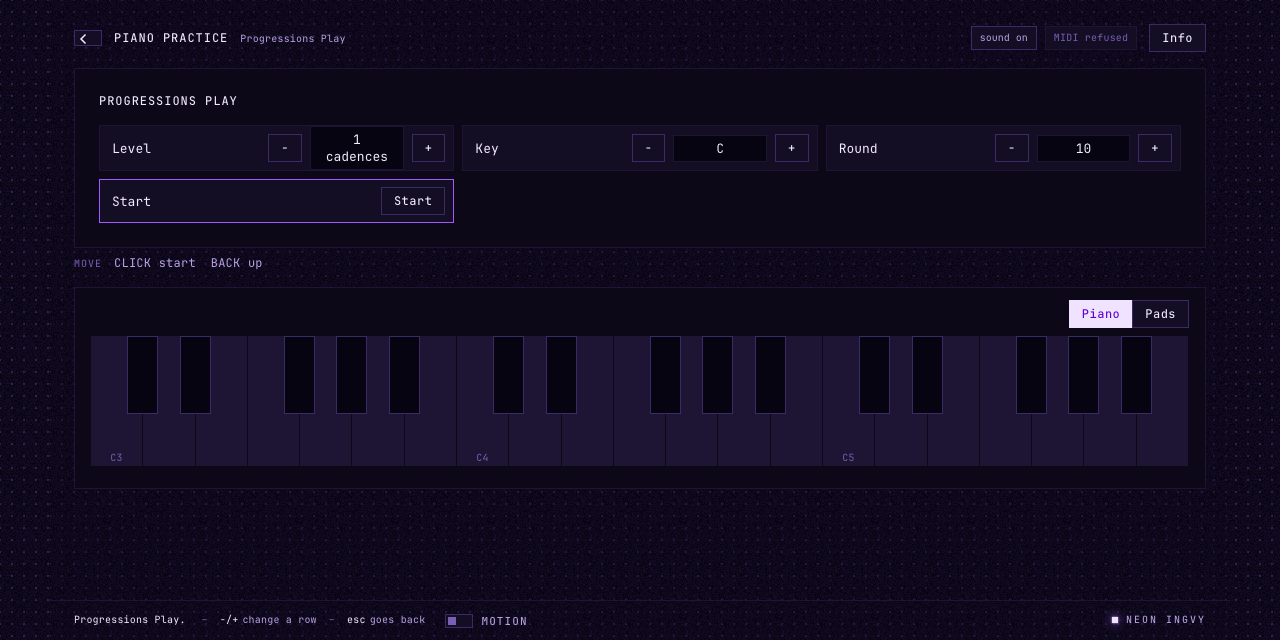
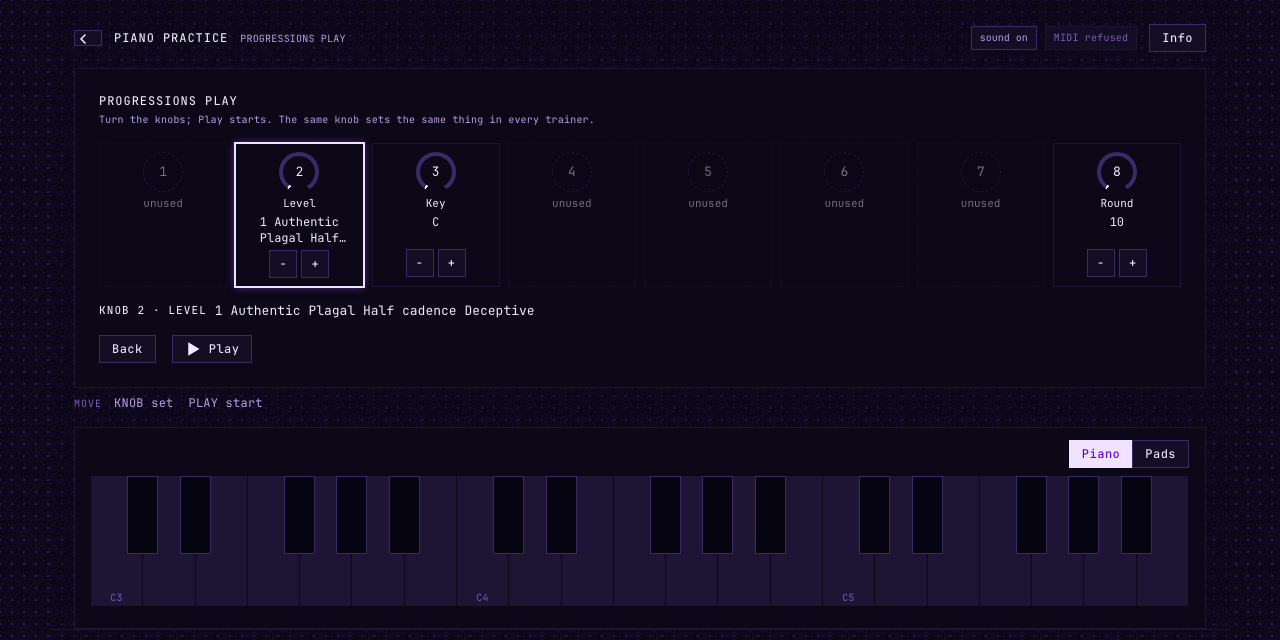
Web: the knob screen, and the docs for knobs and the answer strip
The page's setup is the Move's row of eight knobs: number, what it
sets, its value in words, - / + a step, unused knobs greyed, the knob
last turned spelled out, Play (waiting with its reason while a Custom
pick is too small) and Custom... for the tick list. Actions knob,
focusKnob, play and customPick; e2e for - / +, Play, Back keeping the
focus, and a blocked Custom pick. README, trainers.md, web.md and
finding-your-way describe the knobs and the answer strip, with new
pictures of both.

diff --git a/web/src/app/views.jsx b/web/src/app/views.jsx
@@ -726,6 +726,68 @@ export function TrainerStatsView(props) {
   );
 }
 
+/* ---- A trainer's knob screen --------------------------------------------------- */
+
+/*
+ * A trainer circle's setup, as the Move shows it: eight knobs in a row, the
+ * same knob the same setting in every trainer. Each cell is a knob: its
+ * number, what it sets, its value in words (the page has the room the
+ * Move's two letters lack), and − / + for a step either way (a knob
+ * this circle does not use is greyed). The knob last touched is spelled out
+ * under the row; Play starts, and while a Custom pick is too small it says
+ * why instead.
+ */
+export function KnobSetupView(props) {
+  const ks = () => props.vm().trainerSetup;
+  const focused = () => ks() && ks().knobs.find((k) => k.n === ks().focus && k.field);
+  const turn = (n, delta) => props.dispatch({ type: 'knob', n, delta });
+  return (
+    <Show when={ks()}>
+      <section class="screen knob-screen" aria-labelledby="knob-title">
+        <header class="screen-head">
+          <h1 id="knob-title" class="t-title">{ks().title}</h1>
+          <p class="t-hint">Turn the knobs; Play starts. The same knob sets the same thing in every trainer.</p>
+        </header>
+        <ol class="knob-row" aria-label="The eight knobs">
+          <For each={ks().knobs}>{(k) => (
+            <li class="knob-cell" classList={{ on: k.n === ks().focus, unused: !k.field }} data-knob={k.n}
+                data-field={k.field || ''}>
+              <span class="knob-dial" aria-hidden="true"
+                    style={{ '--pos': k.field ? k.pos : 0 }}><span class="t-value">{k.n}</span></span>
+              <Show when={k.field} fallback={<span class="t-hint knob-label">unused</span>}>
+                <button class="knob-label t-label" type="button" onClick={() => props.dispatch({ type: 'focusKnob', n: k.n })}
+                        data-info={`Knob ${k.n}: ${k.label}`}>{k.label}</button>
+                <span class="knob-value t-value" title={k.text}>{k.text}</span>
+                <span class="knob-steps">
+                  <Button info={`${k.label}: one back`} ariaLabel={`Knob ${k.n}, ${k.label}: down`}
+                          onClick={() => turn(k.n, -1)}>−</Button>
+                  <Button info={`${k.label}: one on`} ariaLabel={`Knob ${k.n}, ${k.label}: up`}
+                          onClick={() => turn(k.n, 1)}>+</Button>
+                </span>
+              </Show>
+            </li>
+          )}</For>
+        </ol>
+        <Show when={focused()}>
+          <p class="knob-detail" aria-live="polite">
+            <span class="t-label">Knob {focused().n} · {focused().label}</span>
+            <span class="t-value">{ks().blocked ? 'to start: ' + ks().blocked : focused().text}</span>
+          </p>
+        </Show>
+        <div class="transport">
+          <Button onClick={() => props.dispatch({ type: 'back' })} info="Back to the trainer">Back</Button>
+          <Show when={ks().custom}>
+            <Button onClick={() => props.dispatch({ type: 'customPick' })} info="Tick the items of your own level">Custom…</Button>
+          </Show>
+          <Button icon="play" disabled={Boolean(ks().blocked)}
+                  info={ks().blocked ? 'Not yet: ' + ks().blocked : 'Start a round'}
+                  onClick={() => props.dispatch({ type: 'play' })}>Play</Button>
+        </div>
+      </section>
+    </Show>
+  );
+}
+
 /* ---- The options of a row ---------------------------------------------------- */
 
 /* Shift + click on the Move: what can be done with the row besides opening it. */

diff --git a/web/src/app/app.css b/web/src/app/app.css
@@ -343,6 +343,38 @@ button.status-pill { cursor: pointer; }
 }
 .stat-bar > span { display: block; height: 100%; background: var(--uv-deep); }
 
+/* A trainer's knob screen: eight knobs in a row, as on the Move. The dial's
+ * arc runs from 7 o'clock as far as the value stands (--pos, 0..1). */
+.knob-row {
+  display: grid; grid-template-columns: repeat(8, minmax(0, 1fr)); gap: var(--space-2);
+  list-style: none; margin: 0; padding: 0;
+}
+.knob-cell {
+  display: flex; flex-direction: column; align-items: center; gap: var(--space-1); min-width: 0;
+  padding: var(--space-2) var(--space-1); border: 1px solid var(--line-100);
+}
+.knob-cell.on { border-color: var(--uv); box-shadow: var(--glow-focus); }
+.knob-cell.unused { opacity: 0.45; border-style: dashed; }
+.knob-dial {
+  --pos: 0; position: relative; display: grid; place-items: center; width: 40px; height: 40px; border-radius: 50%;
+  background: conic-gradient(from 210deg, var(--uv) calc(var(--pos) * 300deg + 6deg), var(--line-200) 0 300deg, transparent 0);
+}
+.knob-dial::before { content: ''; position: absolute; inset: 4px; border-radius: 50%; background: var(--bg-100); }
+.knob-dial > span { position: relative; }
+.knob-cell.unused .knob-dial { background: none; border: 1px dashed var(--line-200); }
+.knob-label { all: unset; cursor: pointer; font-size: 11px; text-align: center; }
+.knob-cell.unused .knob-label { cursor: default; }
+.knob-value {
+  font-family: var(--font-mono); font-size: 12px; text-align: center; overflow-wrap: anywhere;
+  display: -webkit-box; -webkit-line-clamp: 2; -webkit-box-orient: vertical; overflow: hidden; min-height: 2.6em;
+}
+.knob-steps { display: flex; gap: var(--space-1); }
+.knob-steps .btn { min-width: 28px; padding: 0 var(--space-1); }
+.knob-detail { display: flex; flex-wrap: wrap; gap: var(--space-2); margin: 0; }
+@media (max-width: 640px) {
+  .knob-row { grid-template-columns: repeat(4, minmax(0, 1fr)); }
+}
+
 /* A progression's numerals, each marked as its chord goes down. */
 .chord-row { display: flex; flex-wrap: wrap; gap: var(--space-2); list-style: none; margin: 0; padding: 0; }
 .chord-token { padding: var(--space-1) var(--space-2); border: 1px solid var(--line-100); color: var(--ink-muted); }

diff --git a/web/src/app/App.jsx b/web/src/app/App.jsx
@@ -15,7 +15,7 @@ import { Button } from '../kit/components/Button.jsx';
 import { createStore } from './store.js';
 import {
   ListView, HomeView, MapView, PracticeView, QuizView, ResultView, ProgressView, SettingsView, InfoView, SheetView, CardView,
-  TrainerStatsView,
+  TrainerStatsView, KnobSetupView,
   MoveHint, KeysPanel,
 } from './views.jsx';
 import { AnimView } from './scene-view.jsx';
@@ -181,6 +181,7 @@ export function App(props) {
     if (v.screen === 'sheet' && v.sheet) return 'Options: ' + v.sheet.title;
     if (v.screen === 'card' && v.card) return v.card.title;
     if (v.screen === 'trainer-stats' && v.trainerStats) return v.trainerStats.title + ' · Stats';
+    if (v.screen === 'trainer-setup' && v.trainerSetup) return v.trainerSetup.title;
     return { progress: 'Progress', 'progress-detail': 'Progress', info: 'Info', summary: 'Result' }[v.screen] || '';
   };
   const audioLabel = () => ({
@@ -257,6 +258,7 @@ export function App(props) {
               </Match>
               <Match when={vm().screen === 'info'}><InfoView vm={vm} dispatch={dispatch} /></Match>
               <Match when={vm().screen === 'trainer-stats'}><TrainerStatsView vm={vm} dispatch={dispatch} /></Match>
+              <Match when={vm().screen === 'trainer-setup'}><KnobSetupView vm={vm} dispatch={dispatch} /></Match>
               <Match when={vm().screen === 'sheet'}><SheetView vm={vm} dispatch={dispatch} /></Match>
               <Match when={vm().screen === 'card'}><CardView vm={vm} dispatch={dispatch} /></Match>
             </Switch>

diff --git a/docs/trainers.md b/docs/trainers.md
@@ -34,23 +34,43 @@ it and find it; you are told its name and play it.
 
 ## Setting up a round
 
-Read, Hear and Play each open a **setup page**. It works like Settings: turn the jog to a row,
-click to edit, turn to change, click again. The last row, **Start**, runs a round.
+Read, Hear and Play each open the **knob screen**: a row of eight knobs, drawn as the Move's own
+eight sit under the display. Each knob sets one thing. Its number is inside it, an arc round it
+shows how far the value has turned, and two letters under it say the value (`nm` for name, `L3`
+for level 3). Turn a knob to change its setting; touch one to see what it is without changing it.
+The knob you turned or touched is spelled out under the row: its name and its whole value. **PLAY**
+starts a round.
 
-![The setup page of Chords › Read](media/move-setup.png)
+![The knob screen of Chords › Read](media/move-setup.png)
 
-The page remembers what you set, for each trainer and each circle, so the next time you open it,
-Start is one click away.
+The same knob sets the same thing in every trainer, so knowing one trainer is knowing them all:
 
-The rows you will see:
+| Knob | Sets |
+| --- | --- |
+| 1 | Answer |
+| 2 | Level |
+| 3 | Key |
+| 4 | Scale (chords), Direction (scales, intervals) |
+| 5 | Roots (chords), Pattern (scales), Voicing (progressions) |
+| 6 | Inversions (chords), Rhythm (progressions) |
+| 7 | Sound (chords heard) |
+| 8 | Round |
+
+A knob a circle does not use is drawn dotted and empty. The jog walks along the knobs too, for
+anyone who prefers it, and **Shift + click** shows the same setup as a list. The screen remembers
+what you set, for each trainer and each circle, so the next time you open it, a round is one press
+of PLAY away.
+
+What the knobs set:
 
 - **Answer** — how you answer: **play** it on the pads, or **name** it from a short list. Intervals
   can also **compare** two (which is bigger?). Notes heard are **played back** or answered **higher
   or lower**: naming a single pitch out of nowhere is not a skill worth drilling. Play has no answer
   to choose; you always play.
-- **Level** — the trainer's ladder, simple first (below). **Custom** lets you tick your own set: a
-  new Custom pick starts as the level you came from, and Start waits until it has enough — one
-  thing to play, two to tell apart when naming.
+- **Level** — the trainer's ladder, simple first (below). **Custom** lets you tick your own set:
+  turned to Custom, **click** opens the tick list. A new Custom pick starts as the level you came
+  from, and PLAY waits until it has enough — one thing to play, two to tell apart when naming. While
+  it waits, the PLAY light is dark and the screen says what is missing (`tick 2 chords`).
 - **Key** — the key a round is in, or **random**. For progressions there is also **all 12**: the
   same progression in every key, walking round the circle of fifths.
 - The subject's own rows: for chords the key's **Scale**, which **Roots** (diatonic — only the
@@ -66,10 +86,21 @@ counts once and the question stays: getting it right is what moves you on. The s
 right answers a minute, and how many of your attempts were right.
 
 **Naming.** The answers are on the bottom row of pads, each its own colour, and the screen is the
-legend. You get at most eight: the right one and its nearest near misses, in the same order every
-time, so where an answer sits becomes habit.
+legend: wherever pads answer, the screen says which pad is which. You get at most eight: the right
+one and its nearest near misses, in the same order every time, so where an answer sits becomes
+habit.
+
+- **Heard**, four answers or fewer are a list, each with the colour of its pad; more are a map of
+  cells, each over its pad, holding the answer's short name.
 
 ![Chords › Hear, named](media/move-hear-name.png)
+
+- **Read**, the staff needs the screen, so under it sits an **answer strip**: one cell per answer,
+  over its pad's column, the same cells as the Hear map. The column of a pad with no answer is
+  dotted, so the row reads as the pads it is. The jog's choice is filled, and its full name is in
+  the title; an answer Help struck out is crossed through.
+
+![Chords › Read, named: Minor under the jog, its pad the middle cell](media/move-read-name.png)
 
 **Playing.** What counts depends on the circle:
 
@@ -91,7 +122,8 @@ time, so where an answer sits becomes habit.
 out a wrong answer, or names what you are finding. A hinted answer still counts, but the round
 records how many hints you took.
 
-**Back** from a round is its setup page; from the setup page, the trainer's ring. From a result,
+**Back** from a round is its knob screen, the knob you last turned still in focus; from there, the
+trainer's ring. From a result,
 **CLICK** runs another round as set up.
 
 ## The ladders
@@ -140,7 +172,7 @@ subject, until you stop missing it.
 
 ## On the page
 
-In a browser the trainers work the same way: the rings, the setup page with − and + on each row,
+In a browser the trainers work the same way: the rings, the eight knobs with − and + on each,
 the answer buttons in their pad colours, and Stats as a table with a chart of the row you pick.
 See [the page](web.md#trainers).
 

diff --git a/README.md b/README.md
@@ -383,23 +383,28 @@ knows one knows them all: the subject changes, the way to practise it never does
 | **Learn** | the lessons that were there before: scale drills, chord lessons, progression charts |
 | **Stats** | every item asked, weakest first, a meter each for read, heard and played |
 
-**The setup.** Read, Hear and Play open a setup page: rows edited in place as Settings are, and
-**Start** last. It remembers what you set, per trainer and circle.
+**The setup.** Read, Hear and Play open the knob screen: eight knobs drawn as the Move's own, each
+setting one thing, the same knob the same setting in every trainer. A knob turns its setting, a
+touch names it, the jog walks along them, **PLAY** starts. It remembers what you set, per trainer
+and circle; **Shift + click** shows it as a list.
 
-| Row | What it sets |
+| Knob | What it sets |
 | --- | --- |
-| Answer | play or name (compare; play back or higher/lower), where the circle offers a choice |
-| Level | the trainer's ladder, simple first; **Custom** ticks your own set |
-| Key | the key a round is in, or random; for progressions also **all 12**, round the circle of fifths |
-| Scale, Roots, Inversions | chords: the key's scale, which roots (diatonic, in key, chromatic), inversions on or off |
-| Direction, Pattern | scales: up, down or both; straight, in 3rds or in 5ths |
-| Direction | intervals: up, down or together |
-| Voicing, Rhythm | progressions: root, smooth, bass + chord, guide tones; block, pop 8ths, ballad, offbeat, stabs, waltz |
-| Sound | chords heard: block or broken |
-| Round | 10, 20 or 30 right answers, or endless |
+| 1 Answer | play or name (compare; play back or higher/lower), where the circle offers a choice |
+| 2 Level | the trainer's ladder, simple first; **Custom** ticks your own set (click opens the list) |
+| 3 Key | the key a round is in, or random; for progressions also **all 12**, round the circle of fifths |
+| 4 Scale, Direction | chords: the key's scale; scales: up, down or both; intervals: up, down or together |
+| 5 Roots, Pattern, Voicing | chords: diatonic, in key, chromatic; scales: straight, in 3rds or 5ths; progressions: root, smooth, bass + chord, guide tones |
+| 6 Inversions, Rhythm | chords: on or off; progressions: block, pop 8ths, ballad, offbeat, stabs, waltz |
+| 7 Sound | chords heard: block or broken |
+| 8 Round | 10, 20 or 30 right answers, or endless |
 
-Naming needs two things to tell apart, so Start waits until a Custom pick has two (its row says
-what is missing); playing needs one.
+Naming needs two things to tell apart, so PLAY waits until a Custom pick has two (the screen says
+what is missing, and the PLAY light stays dark); playing needs one.
+
+**Which pad.** Wherever pads answer, the screen ties each answer to its pad: heard, four answers or
+fewer are listed with the colour of their pad, more are cells over their pads; read, an answer
+strip of the same cells sits under the staff, the jog's choice named in full in the title.
 
 **What counts.** Read and played, the written notes exactly. Heard and played back, or played from
 a name, any octave and any voicing: `Am` is A, C and E in any order. A scale or an interval goes
@@ -624,8 +629,8 @@ A hinted answer still counts and keeps your streak — a hint you are afraid to 
 does not help you learn — but the round records how many you took, and the result screen shows it.
 Record dims once the help is used up, so the button itself tells you whether there is more.
 
-**Back** during a round returns to its setup. From a round's result it starts a **fresh round** of
-the same setup, so trying again is one press; Back once more for the setup, and again for the
+**Back** during a round returns to its knob screen. From a round's result it starts a **fresh round** of
+the same setup, so trying again is one press; Back once more for the knobs, and again for the
 trainer.
 
 **The answer is never lit on the pads** outside the top rung of help. Lit pads are a playing aid for
@@ -1095,7 +1100,7 @@ in `settings.json`.
 | Grace | **1/4** | how late you may play a note and still be scored a hit, in beats, so the tolerance scales with tempo. A quarter beat is 190 ms at 80bpm — in time. Raise it to 1, 2 or 4 while a piece is new and finding the pad is the work. Never shorter than the 180 ms scoring window. It does **not** move where the scroll stops: that is always the note itself (Wait). Play later than Grace and the scroll still releases — it just scores a miss |
 | Count in | **4** | beats before the first note |
 | Names | **guided** | the note names under the notes, when Guided. `always` keeps them in Solo, `off` hides them in both |
-| Round | **20** | right answers in a round of the Learning Path's hearing drills: 10, 20, 30, or `endless`, which records nothing. A trainer's round has its own, on its setup page |
+| Round | **20** | right answers in a round of the Learning Path's hearing drills: 10, 20, 30, or `endless`, which records nothing. A trainer's round has its own, on knob 8 of its knob screen |
 
 **Advanced › Sound**
 

diff --git a/docs/web.md b/docs/web.md
@@ -166,10 +166,14 @@ Progressions — each the same five circles: **Read**, **Hear**, **Play**,
 
 ![A trainer's five circles](media/web-trainer.png)
 
-**Read**, **Hear** and **Play** open a setup page: the rows a round asks for,
-each with **−** and **+**, and **Start** last. It remembers what you set.
+**Read**, **Hear** and **Play** open the knob screen, as on the Move: eight
+knobs in a row, the same knob the same setting in every trainer. Each shows
+its number, what it sets and its value, with **−** and **+** to turn it; a
+knob the circle does not use is greyed. The knob last turned is spelled out
+under the row. **Play** starts a round; while a Custom pick is too small it
+waits and says why. It remembers what you set.
 
-![A setup page](media/web-setup.png)
+![The knob screen](media/web-setup.png)
 
 A round of naming offers its answers as buttons, each in the colour its pad
 has on the Move. Choose one; a wrong answer is counted once and the question

diff --git a/docs/finding-your-way.md b/docs/finding-your-way.md
@@ -98,8 +98,9 @@ and from the top of a section to home.
 - **Practice** is five trainers: Notes, Intervals, Scales, Chords and
   Progressions. Each is **Read** off the staff, **Hear** by ear, **Play**
   from a name, **Learn** (its lessons) and **Stats** (what you know, weakest
-  first). Read, Hear and Play open a setup page — what a round asks, the
-  last row **Start** — that remembers what you set. The walk-through is
+  first). Read, Hear and Play open the knob screen — what a round asks, a
+  knob each, the same knob in every trainer, **PLAY** to start — that
+  remembers what you set. The walk-through is
   [Practice: five trainers](trainers.md).
 - **Songs** is the pieces: Classics, Electronic, Techno, Styles, and Other
   for files you added.
